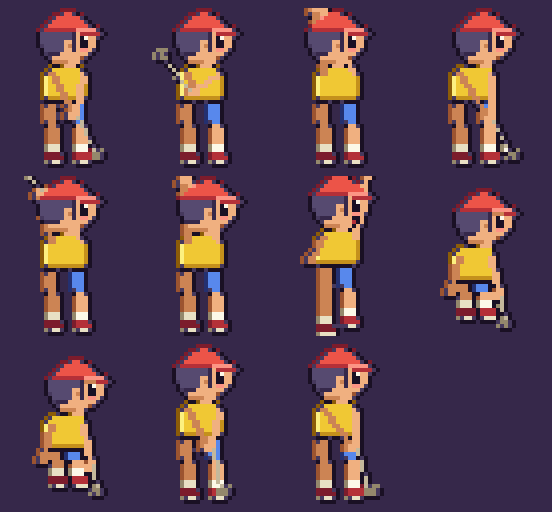
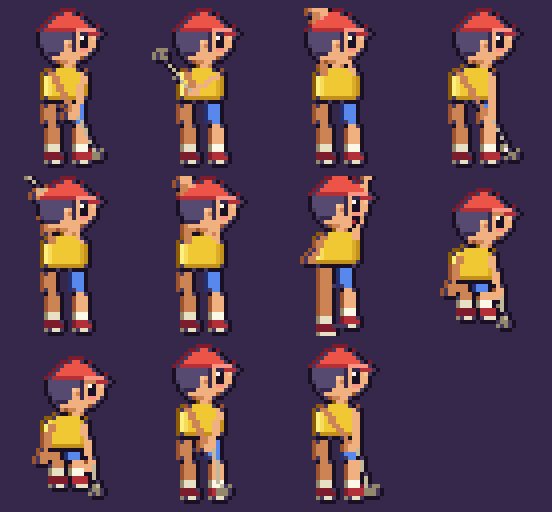
Update minigame sport sprite styling

diff --git a/src/spritegen/athletes.ts b/src/spritegen/athletes.ts
@@ -26,7 +26,7 @@
  * 31 fives) and the team jersey re-dresses the torso.
  */
 import { Pixmap } from './pixmap';
-import { RAMP, T, px, C } from '../palette';
+import { RAMP, T, px, pxr, SH, C } from '../palette';
 import { COURT } from '../hoops/court';
 import { hairTones, isKid, type CharacterSpec, type EyeStyle, type MouthStyle, type HairStyle } from './characters';
 
@@ -286,9 +286,12 @@ function drawAthleteFrame(spec: CharacterSpec, jersey: JerseyOpts | null, o: Fra
 
   /* ---------------- torso ---------------- */
   const topRamp = jersey ? jersey.ramp : spec.top.ramp;
-  const gLit = px(topRamp, 3);
-  const gBase = px(topRamp, 2);
-  const gDark = px(topRamp, 1);
+  const gHi = pxr(topRamp, SH.HILITE);
+  const gLit = pxr(topRamp, SH.LIT);
+  const gBase = pxr(topRamp, SH.BASE);
+  const gMid = pxr(topRamp, SH.MID);
+  const gDark = pxr(topRamp, SH.DARK);
+  const gShade = pxr(topRamp, SH.SHADOW);
   if (dress) {
     pm.rect(tx, torsoTop, tw - 1, 4, gBase);
     for (let i = 0; i < 5; i++) {
@@ -296,22 +299,32 @@ function drawAthleteFrame(spec: CharacterSpec, jersey: JerseyOpts | null, o: Fra
       pm.hline(tx - grow + 1, torsoTop + 4 + i, tw - 1 + grow, gBase);
     }
     pm.hline(tx - 2, torsoBot, tw + 2, gDark); // hem in motion
-    pm.vline(tx, torsoTop + 2, 6, gLit);
+    pm.vline(tx, torsoTop + 2, 6, gHi);
+    pm.vline(tx + 1, torsoTop + 3, 5, gLit);
     pm.vline(tx + tw - 2, torsoTop + 3, 6, gDark); // pleat weight
+    pm.set(tx + tw - 1, torsoBot - 1, gShade);
   } else {
     pm.rect(tx, torsoTop, tw, torsoH, gBase);
-    pm.vline(tx, torsoTop, torsoH, gLit); // lit chest edge (light top-left)
-    pm.vline(tx + tw - 1, torsoTop + 1, torsoH - 1, gDark);
+    // Use the same six-stop rounded torso treatment as the updated cast
+    // sprites, then keep the sport-only arms/legs on top of it.
+    pm.vline(tx, torsoTop + 1, torsoH - 1, gHi);
+    pm.vline(tx + 1, torsoTop + 1, torsoH - 1, gLit);
+    pm.vline(tx + tw - 2, torsoTop + 1, torsoH - 1, gMid);
+    pm.vline(tx + tw - 1, torsoTop + 2, torsoH - 2, gDark);
     pm.hline(tx, torsoBot - 1, tw, gDark);
+    pm.set(tx + tw - 1, torsoBot - 1, gShade);
     pm.set(tx, torsoTop, T);
+    pm.set(tx + 1, torsoTop, T);
     pm.set(tx + tw - 1, torsoTop, T);
+    pm.set(tx + tw - 2, torsoTop, T);
     if (jersey) {
       // the tank: armhole scoops + trim bands — a jersey, not a tee
       pm.vline(tx + 1, torsoTop, 2, skin);
       pm.vline(tx + tw - 2, torsoTop, 2, skinD);
-      pm.hline(tx + 2, torsoTop, tw - 4, px(jersey.trim, 3)); // collar
-      pm.hline(tx, torsoBot - 1, tw, px(jersey.trim, 2)); // waist band
+      pm.hline(tx + 3, torsoTop, tw - 6, px(jersey.trim, 3)); // collar
+      pm.hline(tx + 1, torsoBot - 1, tw - 2, px(jersey.trim, 2)); // waist band
       pm.vline(tx + Math.floor(tw / 2), torsoTop + 2, 3, px(jersey.trim, 2)); // side stripe turned
+      pm.set(tx + 2, torsoTop + 1, gHi);
     } else {
       switch (spec.top.style) {
         case 'stripe': {
@@ -539,14 +552,20 @@ export function drawProfileHead(
   mouthOpen: boolean,
   backTurned: boolean,
 ): void {
-  const skin = px(spec.skin, 2);
-  const skinL = px(spec.skin, 3);
-  const skinD = px(spec.skin, 1);
+  const skin = pxr(spec.skin, SH.BASE);
+  const skinL = pxr(spec.skin, SH.HILITE);
+  const skinSoft = pxr(spec.skin, SH.LIT);
+  const skinMid = pxr(spec.skin, SH.MID);
+  const skinD = pxr(spec.skin, SH.DARK);
+  const skinShade = pxr(spec.skin, SH.SHADOW);
   const { hairB, hair, hairL } = hairTones(spec);
   const last = HEAD_ROWS - 1;
   SIDE_SKULL.forEach(([ins, wd], r) => pm.hline(hx + ins, hy + r, wd, skin));
+  pm.hline(hx + SIDE_SKULL[1][0] + 2, hy + 1, SIDE_SKULL[1][1] - 6, skinL);
+  pm.hline(hx + SIDE_SKULL[2][0] + 1, hy + 2, 4, skinSoft);
   // neck
   pm.rect(hx + 6, hy + last + 1, 3, neckBottomY - (hy + last + 1), skin);
+  pm.vline(hx + 8, hy + last + 1, Math.max(0, neckBottomY - (hy + last + 1)), skinD);
   const bald = spec.hairStyle === 'gray' || spec.hairStyle === 'none';
   const hatted = spec.hat?.kind === 'cap';
 
@@ -561,6 +580,7 @@ export function drawProfileHead(
       for (let r = 0; r <= last - 2; r++) {
         const [ins, wd] = SIDE_SKULL[r];
         pm.rect(hx + ins, hy + r, wd, 1, hair);
+        if (r <= 2) pm.set(hx + ins + 1, hy + r, hairL);
       }
       pm.hline(hx + SIDE_SKULL[0][0] + 1, hy, 3, hairL);
       pm.hline(hx + SIDE_SKULL[last - 2][0] + 1, hy + last - 2, 5, hairB); // nape
@@ -638,6 +658,7 @@ export function drawProfileHead(
   }
   // the profile face: ear, one eye, brow/nose edge, mouth, blush
   pm.rect(hx + 6, hy + 6, 2, 3, skin);
+  pm.set(hx + 6, hy + 6, skinSoft);
   pm.set(hx + 7, hy + 7, skinD); // ear
   const eyeY = hy + 5;
   const ex = hx + 10;
@@ -649,20 +670,24 @@ export function drawProfileHead(
     pm.rect(ex, eyeY + 1, 2, 2, C.outline);
     pm.hline(ex - 1, eyeY - 1, 3, bald ? skinD : hairB);
   } else if (eyes === 'wide') {
-    pm.rect(ex - 1, eyeY - 1, 3, 4, C.white);
-    pm.rect(ex, eyeY, 2, 2, C.outline);
+    pm.rect(ex - 1, eyeY - 1, 4, 5, C.white);
+    pm.rect(ex + 1, eyeY + 1, 2, 2, C.outline);
+    pm.set(ex + 1, eyeY + 1, px(RAMP.PAPER, 3));
+    pm.hline(ex - 1, eyeY - 2, 4, skinD);
   } else {
     pm.rect(ex, eyeY, 2, eyes === 'dot' ? 2 : 3, C.outline);
-    pm.set(ex + 1, eyeY, C.white); // catchlight hunts the rim
+    pm.set(ex, eyeY, C.white); // catchlight hunts the rim
+    pm.hline(ex, eyeY - 1, 2, C.inkSoft);
   }
   if (spec.glasses) {
     pm.frame(ex - 1, eyeY - 1, 4, 5, C.inkSoft);
     pm.hline(hx + 7, eyeY + 1, 2, C.inkSoft);
     pm.set(ex + 2, eyeY - 1, px(RAMP.CYAN, 3));
   }
-  pm.set(hx + HEAD_W - 1, hy + 5, skin); // brow ledge
+  pm.set(hx + HEAD_W - 1, hy + 5, skinSoft); // brow ledge
   pm.set(hx + HEAD_W - 1, hy + 7, skin); // nose bump
-  pm.set(hx + HEAD_W - 1, hy + 8, skinD); // nostril shadow
+  pm.set(hx + HEAD_W - 1, hy + 8, skinShade); // nostril shadow
+  pm.set(hx + HEAD_W - 2, hy + 9, skinMid); // upper lip turn
   if (spec.blush ?? isKid(spec)) pm.hline(hx + 10, hy + 8, 2, px(RAMP.RED, 3));
   const my = hy + 10;
   const mouth: MouthStyle = spec.mouth ?? 'hint';
@@ -670,9 +695,10 @@ export function drawProfileHead(
     pm.rect(hx + 10, my - 1, 2, 2, C.outline);
     pm.set(hx + 10, my, px(RAMP.RED, 1));
   } else if (mouth !== 'none') {
-    pm.hline(hx + 10, my, 2, px(spec.skin, 0));
+    pm.hline(hx + 10, my, 2, skinShade);
   }
   pm.hline(hx + SIDE_SKULL[last][0], hy + last, SIDE_SKULL[last][1] - 3, skinD); // jaw shadow
+  pm.set(hx + SIDE_SKULL[last][0] + 1, hy + last, skinShade);
 }
 
 /** the 25-frame SPORT SHEET for one spec (+ optional team jersey) */

diff --git a/src/spritegen/golfers.ts b/src/spritegen/golfers.ts
@@ -11,7 +11,7 @@
  * the universal sad putter slump ×2 · putt address · putt strike — 11.
  */
 import { Pixmap } from './pixmap';
-import { RAMP, T, px, C } from '../palette';
+import { RAMP, T, px, pxr, SH, C } from '../palette';
 import { TILE, HOLES, expandGrid, type HoleDef, type Terrain } from '../links/course';
 import { drawProfileHead, ATHLETE_W, ATHLETE_H } from './athletes';
 import { isKid, type CharacterSpec } from './characters';
@@ -82,12 +82,23 @@ function drawGolferFrame(spec: CharacterSpec, pose: Swing): Pixmap {
 
   /* ---- torso (canon clothes — heroes golf as themselves) ---- */
   const topRamp = spec.top.ramp;
-  pm.rect(tx, torsoTop, tw, torsoH, px(topRamp, 2));
-  pm.vline(tx, torsoTop, torsoH, px(topRamp, 3));
-  pm.vline(tx + tw - 1, torsoTop + 1, torsoH - 1, px(topRamp, 1));
-  pm.hline(tx, torsoBot - 1, tw, px(topRamp, 1));
+  const gHi = pxr(topRamp, SH.HILITE);
+  const gLit = pxr(topRamp, SH.LIT);
+  const gBase = pxr(topRamp, SH.BASE);
+  const gMid = pxr(topRamp, SH.MID);
+  const gDark = pxr(topRamp, SH.DARK);
+  const gShade = pxr(topRamp, SH.SHADOW);
+  pm.rect(tx, torsoTop, tw, torsoH, gBase);
+  pm.vline(tx, torsoTop + 1, torsoH - 1, gHi);
+  pm.vline(tx + 1, torsoTop + 1, torsoH - 1, gLit);
+  pm.vline(tx + tw - 2, torsoTop + 1, torsoH - 1, gMid);
+  pm.vline(tx + tw - 1, torsoTop + 2, torsoH - 2, gDark);
+  pm.hline(tx, torsoBot - 1, tw, gDark);
+  pm.set(tx + tw - 1, torsoBot - 1, gShade);
   pm.set(tx, torsoTop, T);
+  pm.set(tx + 1, torsoTop, T);
   pm.set(tx + tw - 1, torsoTop, T);
+  pm.set(tx + tw - 2, torsoTop, T);
 
   /* ---- arms + THE CLUB (one line of steel; putter is shorter) ---- */
   const club = px(RAMP.PAPER, 1);
